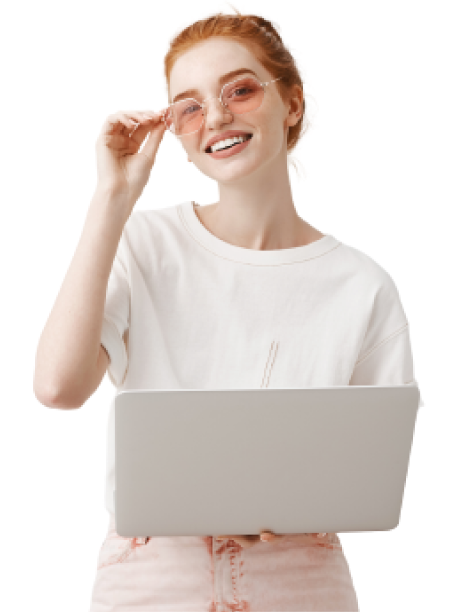
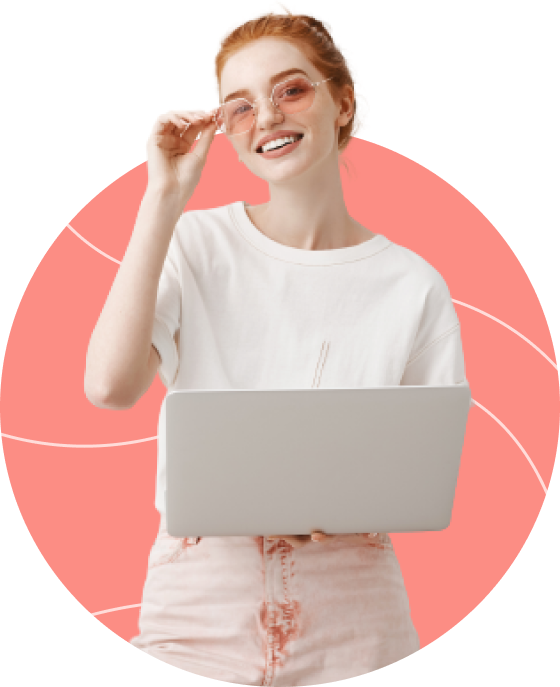
style changes

diff --git a/style.css b/style.css
@@ -1,27 +1,175 @@
+* {
+    box-sizing: border-box;
+}
+
 .header {
     width: 100%;
     height: 100px;
     display: flex;
     flex-direction: row;
     border-bottom: 3px solid #DA6B62;
+    margin: auto;
 }
 
 .header .logo {
     display: flex;
     flex-direction: row;
     flex-grow: 3;
+    margin-left: 5%;
 }
 
 .header .menu {
     display: flex;
     flex-direction: row;
     align-items: center;
-    font-family:"Roboto";
+    justify-content: center;
+    font-family: "Roboto";
     font-style: normal;
     font-weight: 400;
     font-size: 24px;
     line-height: 40px;
     color: #141323;
     flex-grow: 1;
-    
+    margin-right: 5%;
+}
+
+.menu .menu {
+    text-align: center;
+    align-items: center;
+    justify-content: center;
+}
+
+.presentation {
+    width: 100%;
+    height: 725px;
+    display: flex;
+    flex-direction: row;
+    justify-content: space-between;
+}
+
+.description {
+    display: flex;
+    flex-direction: column;
+    justify-content: space-between;
+    align-items: flex-start;
+    width: 52%;
+    margin-left: 5%;
+}
+
+.buttons {
+    display: flex;
+    flex-direction: row;
+}
+
+.girlimg {
+    width: 30%;
+    margin-right: 5%;
+}
+
+h1 {
+    font-family: 'Roboto';
+    font-style: normal;
+    font-weight: 800;
+    font-size: 64px;
+    line-height: 86px;
+    color: #141323;
+
+}
+
+p {
+    font-family: 'Roboto';
+    font-style: normal;
+    font-weight: 400;
+    font-size: 30px;
+    line-height: 48px;
+    color: #141323;
+}
+
+.button1,
+.button2 {
+    width: 340px;
+    height: 72px;
+    border-radius: 20px 0px;
+    font-family: 'Roboto';
+    font-style: normal;
+    font-weight: 400;
+    font-size: 24px;
+}
+
+.button1 {
+    background: #DA6B62;
+    border-color: #DA6B62;
+    color: #FFFFFF;
+    margin-right: 55px;
+}
+
+.button2 {
+    border: 3px solid #DA6B62;
+    color: #141323;
+}
+
+#forwho h2 {
+    font-family: 'Roboto';
+    font-style: normal;
+    font-weight: 600;
+    font-size: 40px;
+    color: #141323;
+    margin-left: 5%;
+    margin-top: 210px;
+}
+
+.for {
+    display: flex;
+    flex-direction: row;
+    justify-content: space-between;
+    margin-left: 5%;
+    margin-right: 5%;
+}
+
+#for1,
+#for2,
+#for3 {
+    width: 560px;
+    height: 265px;
+    background: #E5F8F6;
+    border-radius: 60px 0px;
+}
+
+#for1,
+#for2 {
+    margin-right: 20px;
+}
+
+#for1 p,
+#for2 p,
+#for3 p {
+    font-family: 'Roboto';
+    font-style: normal;
+    font-weight: 400;
+    font-size: 30px;
+    line-height: 48px;
+    color: #141323;
+    text-align: center;
+}
+
+#for1 li,
+#for2 li,
+#for3 li {
+    font-family: 'Roboto';
+    font-style: normal;
+    font-weight: 400;
+    font-size: 20px;
+    line-height: 30px;
+    color: #141323;
+    margin-left: 20px;
+}
+
+#for1{
+    background-image: url(img/background_for1.png);
+}
+#for2{
+    background-image: url(img/background_for2.png);
+}
+#for3{
+    background-image: url(img/background_for3.png);
 }

diff --git a/maket2.html b/maket2.html
@@ -24,6 +24,47 @@
         </div>
     </div>
 
+    <div class="presentation">
+        <div class="description">
+            <div>
+            <h1>Профессиональный курс по <br> веб и мобильному дизайну</h1>
+            </div>
+            <div>
+                <p>3 месяца (25 занятий по 3 часа среда/суббота)</p>
+                <p>Помощь в трудоустройстве/стажировка</p>
+                <p>Онлайн и оффлайн группы</p>
+            </div>
+            <div class="buttons">
+                <button class="button1">Получить консультацию</button>
+                <button class="button2">Программа курса</button>
+            </div>
+        </div>
+        <div class="girlimg">
+            <img src="img/main page girl laptop.png">
+        </div>
+    </div>
+
+    <div id="forwho"><h2>Для кого подойдет этот курс</h2></div>
+    <div class="for">
+    <div id="for1">
+        <p>Для тех , кто не имеет<br>практического опыта</p>
+        <li>Прокачаете свои навыки</li>
+        <li>Поработаете в команде</li>
+    </div>
+    <div id="for2">
+        <p>Для начинающих<br>дизайнеров</p>
+        <li>Соберете портфолио</li>
+        <li>Прокачаетесь в инструментах дизайна</li>
+        <li>Освоите Figma</li>
+    </div>
+    <div id="for3">
+        <p>Для графических<br>дизайнеров</p>
+        <li>Структурируете свои знания</li>
+        <li>Прокачаете свои навыки</li>
+        <li>Поработаете в команде</li>
+    </div>
+    </div>
+
 </body>
 
 </html>
